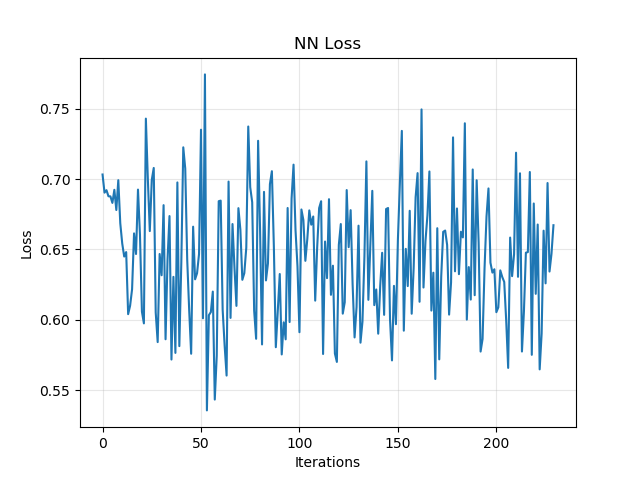
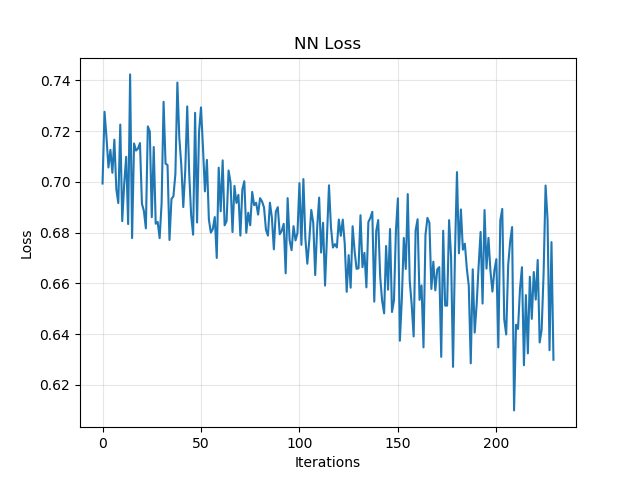
finished code

diff --git a/train.py b/train.py
@@ -36,14 +36,15 @@ from sklearn.preprocessing import StandardScaler
 
 from sklearn.metrics import accuracy_score
 from sklearn.preprocessing import StandardScaler 
+from sklearn.decomposition import PCA
 
-from pca import run_pca
 
 MODELS = (LogisticRegression, RandomForestClassifier, GradientBoostingClassifier,
           SVC)
 MODEL_NAMES = ('LR', 'RF', 'XBoost', 'SVM')
 
 team_data = None
+NUMPC = 8
 
 ## Ensure Reproducibility
 def set_seed(args):
@@ -100,11 +101,51 @@ def fetch_team_stats(team_keys):
                      ts.time_to_first_dragon]).T
 
 
+def run_pca(data, num_components):
+    
+    data_vals = data
+    
+    target_index = len(data_vals[0])-2
+    
+    
+    
+    team_1 = fetch_team_stats(data_vals[:,1])
+    team_2 = fetch_team_stats(data_vals[:,2])
+    
+    x_data = np.concatenate((team_1, team_2), axis=1) 
+    y_data = data_vals[:,target_index].astype("int")
+    
+    
+    y_df = pd.DataFrame(data = y_data)
+ 
+    
+    y_df.rename(columns = {0:'target'},inplace = True)
+    
+    x_data = StandardScaler().fit_transform(x_data)
+    
+    lol_pca = PCA(n_components=num_components)
+    
+    principal_components = lol_pca.fit_transform(x_data)
+    
+    principal_df = pd.DataFrame(data = principal_components)
+    
+    finalDf = pd.concat([principal_df, y_df], axis = 1)
+    
+    
+    for i in range(1,1+ num_components):
+        print('Principle Component ' + str(i) + ' explains ' + str(lol_pca.explained_variance_ratio_[i-1])+' of the total variance')
+    
+    print() 
+    print('Total Explained Variance: ' + str(sum(lol_pca.explained_variance_ratio_))+' for '+str(num_components)+' principle components')
+    
+    return finalDf
+
+
 def evaluate(model, test_data):
     ## TODO: passes all of our training data through the model and computes statistics
     #should be correct now
-    test_X = fetch_game_stats(test_data[:,1], test_data[:,2])
-    test_y = test_data[:,3].astype("int")
+    test_X = test_data[:,0:NUMPC]
+    test_y = test_data[:,NUMPC].astype("int")
     
     predictions = model.predict(test_X)
     
@@ -125,37 +166,34 @@ def evaluate(model, test_data):
 
 def train(model_type, train_data):
     ## Split X, y
-    X = train_data[:, (1,2)]
-    y = train_data[:, 3].astype('int')
+    X = train_data[:, 0:NUMPC]
+    y = train_data[:, NUMPC].astype('int')
     
-    ## TODO: for each element of X, grab appropriate features
-    X_team = fetch_game_stats(X[:, 0], X[:, 1])
-
     ## Sweep parameters
-    #Cs = [2e-5, 2e-3, 2e-1, 2e2, 2e3]
-    #gammas = [0.5, 0.001, 0.01, 0.1, 1]
-    #param_grid = {'C': Cs, 'gamma' : gammas}
-    #grid_search = GridSearchCV(SVC(), param_grid, cv=3)
-    #grid_search.fit(X_team, y)
-    #best_params = grid_search.best_params_
+    Cs = [2e-5, 2e-3, 2e-1, 2e2, 2e3]
+    gammas = [0.5, 0.001, 0.01, 0.1, 1]
+    param_grid = {'C': Cs, 'gamma' : gammas}
+    grid_search = GridSearchCV(SVC(), param_grid, cv=3)
+    grid_search.fit(X, y)
+    best_params = grid_search.best_params_
     #print(best_params)
     
     ## TODO: CV over series of model hyperparameters
-    #model = SVC(C=best_params['C'], gamma=best_params['gamma'])
-    model = model_type()
-    model.fit(X_team, y)
+    model = SVC(C=best_params['C'], gamma=best_params['gamma'])
+    #model = model_type()
+    model.fit(X, y)
 
-    tr_acc = model.score(X_team, y)
+    tr_acc = model.score(X, y)
     
     return model, tr_acc
 
 
 def neural_net(args, train_data, test_data):
-    X = train_data[:, (1,2)]
-    y = train_data[:, 3].astype('int')
+    X = train_data[:, 0:NUMPC]
+    y = train_data[:, NUMPC].astype('int')
     
     ## TODO: for each element of X, grab appropriate features
-    X_team = torch.Tensor(fetch_game_stats(X[:, 0], X[:, 1]))
+    X_team = torch.Tensor(X)
     labels = torch.Tensor(y).long()
 
     train_set = TensorDataset(X_team, labels)
@@ -174,7 +212,7 @@ def neural_net(args, train_data, test_data):
     
     model = LOL_model(X_team.size()[1])
     model.train()
-    optimizer = torch.optim.Adam(model.parameters(), lr=1e-3)
+    optimizer = torch.optim.Adam(model.parameters(), lr=args.lr)
 
     for epoch in train_it:
         epoch_it = tqdm(train_loader, desc='Iteration')
@@ -202,8 +240,8 @@ def neural_net(args, train_data, test_data):
     ## Now compute accuracy
     model.eval()
 
-    test_X = torch.Tensor(fetch_game_stats(test_data[:,1], test_data[:,2]))
-    test_y = torch.Tensor(test_data[:,3].astype("int"))
+    test_X = torch.Tensor(test_data[:,0:NUMPC])
+    test_y = torch.Tensor(test_data[:,NUMPC].astype("int"))
 
     test_set = TensorDataset(test_X, test_y)
 
@@ -236,11 +274,13 @@ def manual_args():
     args.team_data = ''
     args.output_dir = 'model_states/tmp/'
     args.overwrite_output_dir = True
-    args.seed=69
+    args.seed=100
     args.tt_split = .8
+    args.results = 'diff'
     args.use_differentials = True
-    args.batch_size = 64
-    args.epochs = 5
+    args.batch_size = 256
+    args.epochs = 12
+    args.lr = 1e-3
     return args
 
 
@@ -270,28 +310,27 @@ def dumb_model(args, test_data):
 
 
 def get_reduced_data(train_data, test_data):
-    num_pcs = [4,6,8]
+    num_pcs = NUMPC
     complete_data = np.concatenate((train_data,test_data),axis =0)
     
-    for num_pc in num_pcs:
-        pca_df = run_pca(complete_data, num_pc)
+    pca_df = run_pca(complete_data, num_pcs)
 
-        breakpoint()
+    length = round(len(pca_df)*.8)
+    
+    train_df = pca_df[:length][:]
+    test_df = pca_df[length:][:]
         
-        train_df = pca_df[:3000][:]
-        test_df = pca_df[3000:][:]
+    y_train = train_df[:]['target']
+    x_train = train_df.drop('target',axis =1)
         
-        y_train = train_df[:]['target']
-        x_train = train_df.drop('target',axis =1)
-        
-        y_test = test_df[:]['target']
-        x_test = test_df.drop('target',axis =1)
+    y_test = test_df[:]['target']
+    x_test = test_df.drop('target',axis =1)
         
         
-        train = pd.concat([x_train, y_train], axis = 1)
-        test = pd.concat([x_test, y_test], axis = 1)
+    train = pd.concat([x_train, y_train], axis = 1)
+    test = pd.concat([x_test, y_test], axis = 1)
 
-    return train, test
+    return np.array(train), np.array(test)
 
 
 def plot_loss(logged_loss):
@@ -305,30 +344,71 @@ def plot_loss(logged_loss):
 def main():
     ## Gather arguments and se tthe seed
     args = manual_args()
-    set_seed(args)
 
-    ## Get data - np.arrays
-    train_data, test_data = prep_data(args)
+    results = []
+    with open('results_sweep.txt', 'w') as f:
+        for i in range(3):
+            set_seed(args)
+            ## Get data - np.arrays
+            train_data, test_data = prep_data(args)
+            ## Do PCA
+            train_data, test_data = get_reduced_data(train_data, test_data)
 
-    results_list = []
+            ## Run all of the models at the base level and return train/test accuracy
+            ix = 0
+            for model_type, model_name in zip(MODELS[3], MODEL_NAMES[3]):
+                model, tr_acc = train(model_type, train_data)
+                eval_acc = evaluate(model, test_data)['accuracy']
 
-    with open('results.txt', 'w') as f:
-    
-        ## Run all of the models at the base level and return train/test accuracy
-        for model_type, model_name in zip(MODELS, MODEL_NAMES):
-            model, tr_acc = train(model_type, train_data)
-            results = evaluate(model, test_data)
+                if i == 0:
+                    results.append([tr_acc, eval_acc])
+                else:
+                    results[ix][0] += tr_acc
+                    results[ix][1] += eval_acc
+                ix += 1
+            
+            ## Train and evaluate the nn
+            tr_acc, tr_loss, eval_acc, loss_logged = neural_net(args, train_data,
+                                                                test_data)
+            if i == 0:
+                results.append([tr_acc, eval_acc])
+            else:
+                results[ix][0] += tr_acc
+                results[ix][1] += eval_acc
 
-            print(model_name, 'Train Accuracy:', tr_acc, 'Evaluation:', results, file=f)
+            ## reset seed
+            args.seed += 1
 
-        ## Train and evaluate the nn
-        tr_acc, tr_loss, eval_acc, loss_logged = neural_net(args, train_data, test_data)
-
-        print('NN Train Accuracy:', tr_acc, 'Evaluation:', eval_acc, 'Train Loss:',
-              tr_loss, file=f)
-    
-    plot_loss(loss_logged)
-    
+        print(np.array(results)/3, file=f)
+   
     ## Now select the best models manually and train hyperparameters
 
-main()
+def sweep_hyperparams():
+    args = manual_args()
+
+    results = []
+    with open('results_sweep.txt', 'w') as f:
+        for i in range(3):
+            set_seed(args)
+            ## Get data - np.arrays
+            train_data, test_data = prep_data(args)
+            ## Do PCA
+            train_data, test_data = get_reduced_data(train_data, test_data)
+
+            ## Train and evaluate the nn
+            tr_acc, tr_loss, eval_acc, loss_logged = neural_net(args, train_data,
+                                                                test_data)
+            if i == 0:
+                results.append([tr_acc, eval_acc])
+            else:
+                results[0][0] += tr_acc
+                results[0][1] += eval_acc
+
+            args.seed += 1
+        print(np.array(results)/3, file=f)
+        print(np.array(results)/3)
+   
+    ## Now select the best models manually and train hyperparameters
+
+sweep_hyperparams()   
+#main()

diff --git a/pca.py b/pca.py
@@ -13,14 +13,10 @@ from train import fetch_team_stats
 import pandas as pd
 import numpy as np
 
-
-
 #data = data values of game info
 #num_components = number of principle components
 #returns new data frame with principle components of the team data extracted
-def run_pca(data , num_components):
-    
-    
+def run_pca(data, num_components):
     
     data_vals = data
     
@@ -60,4 +56,3 @@ def run_pca(data , num_components):
     print('Total Explained Variance: ' + str(sum(lol_pca.explained_variance_ratio_))+' for '+str(num_components)+' principle components')
     
     return finalDf
-
